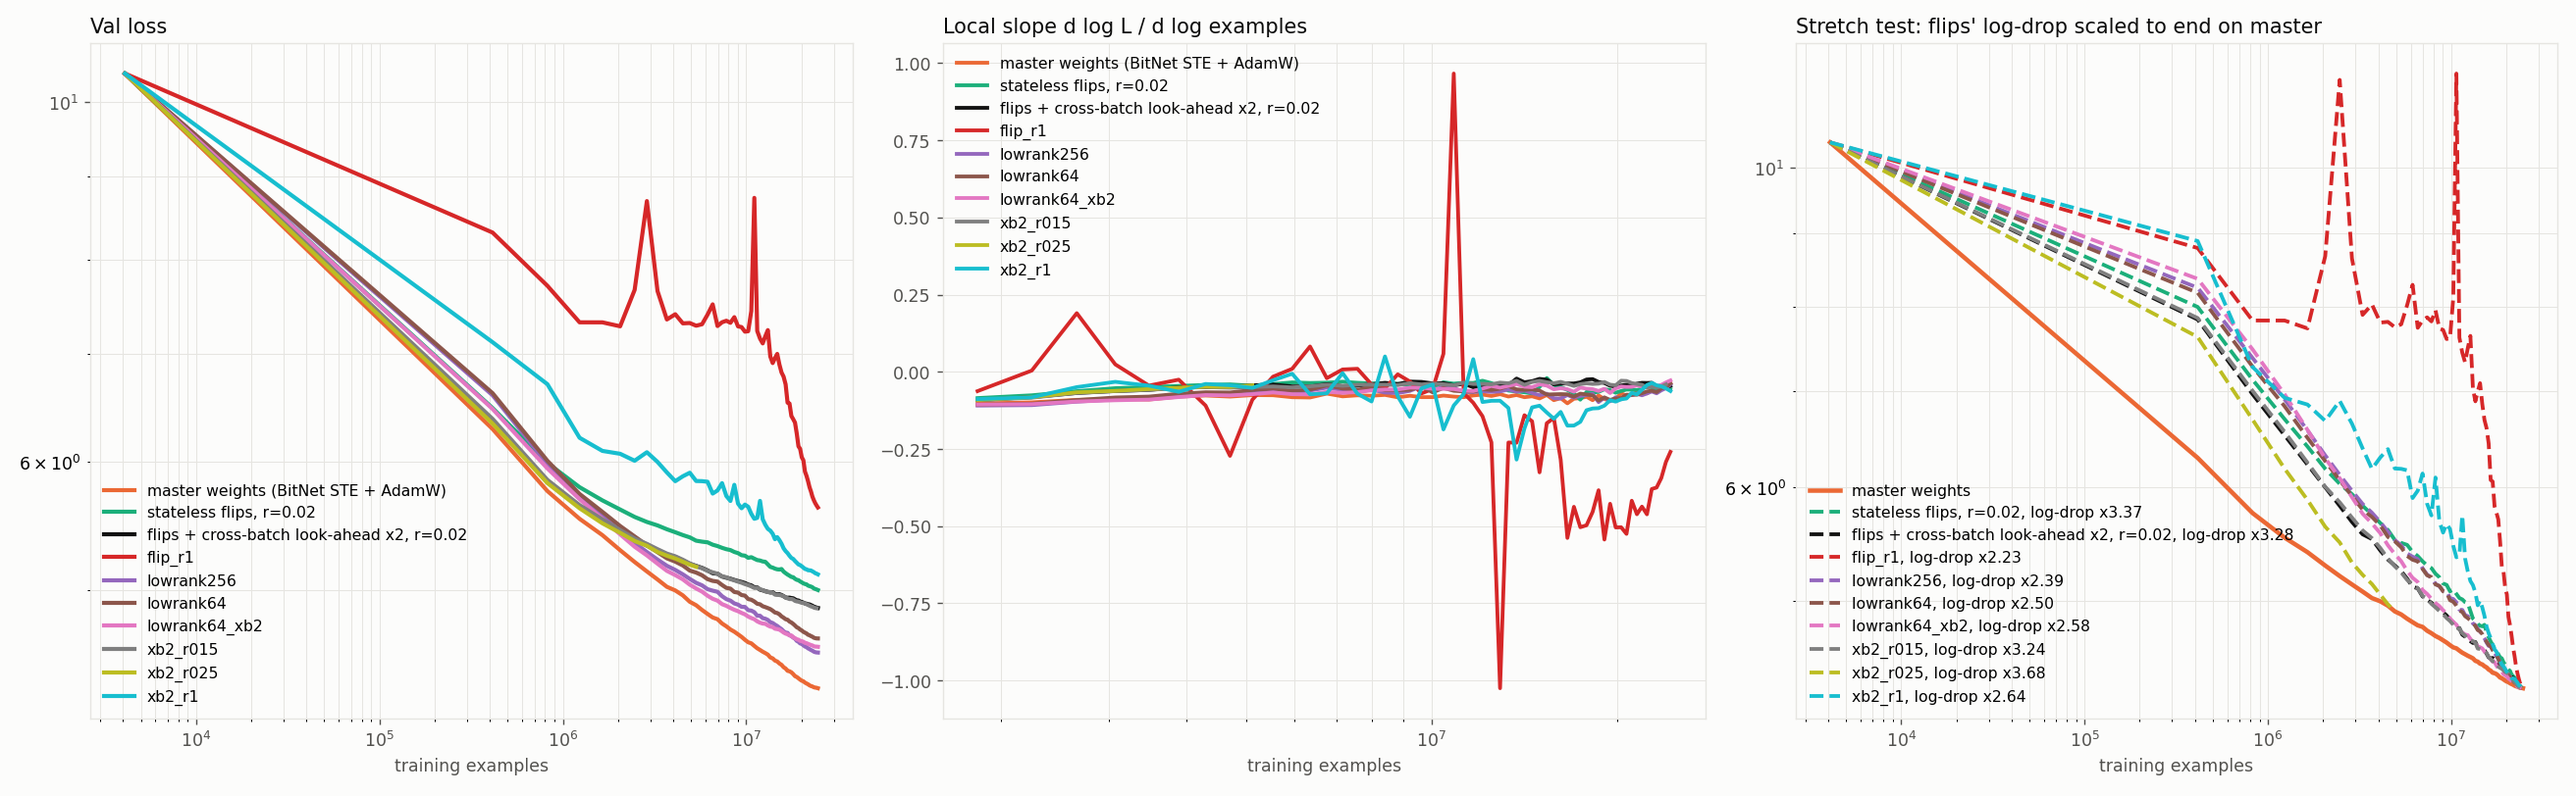
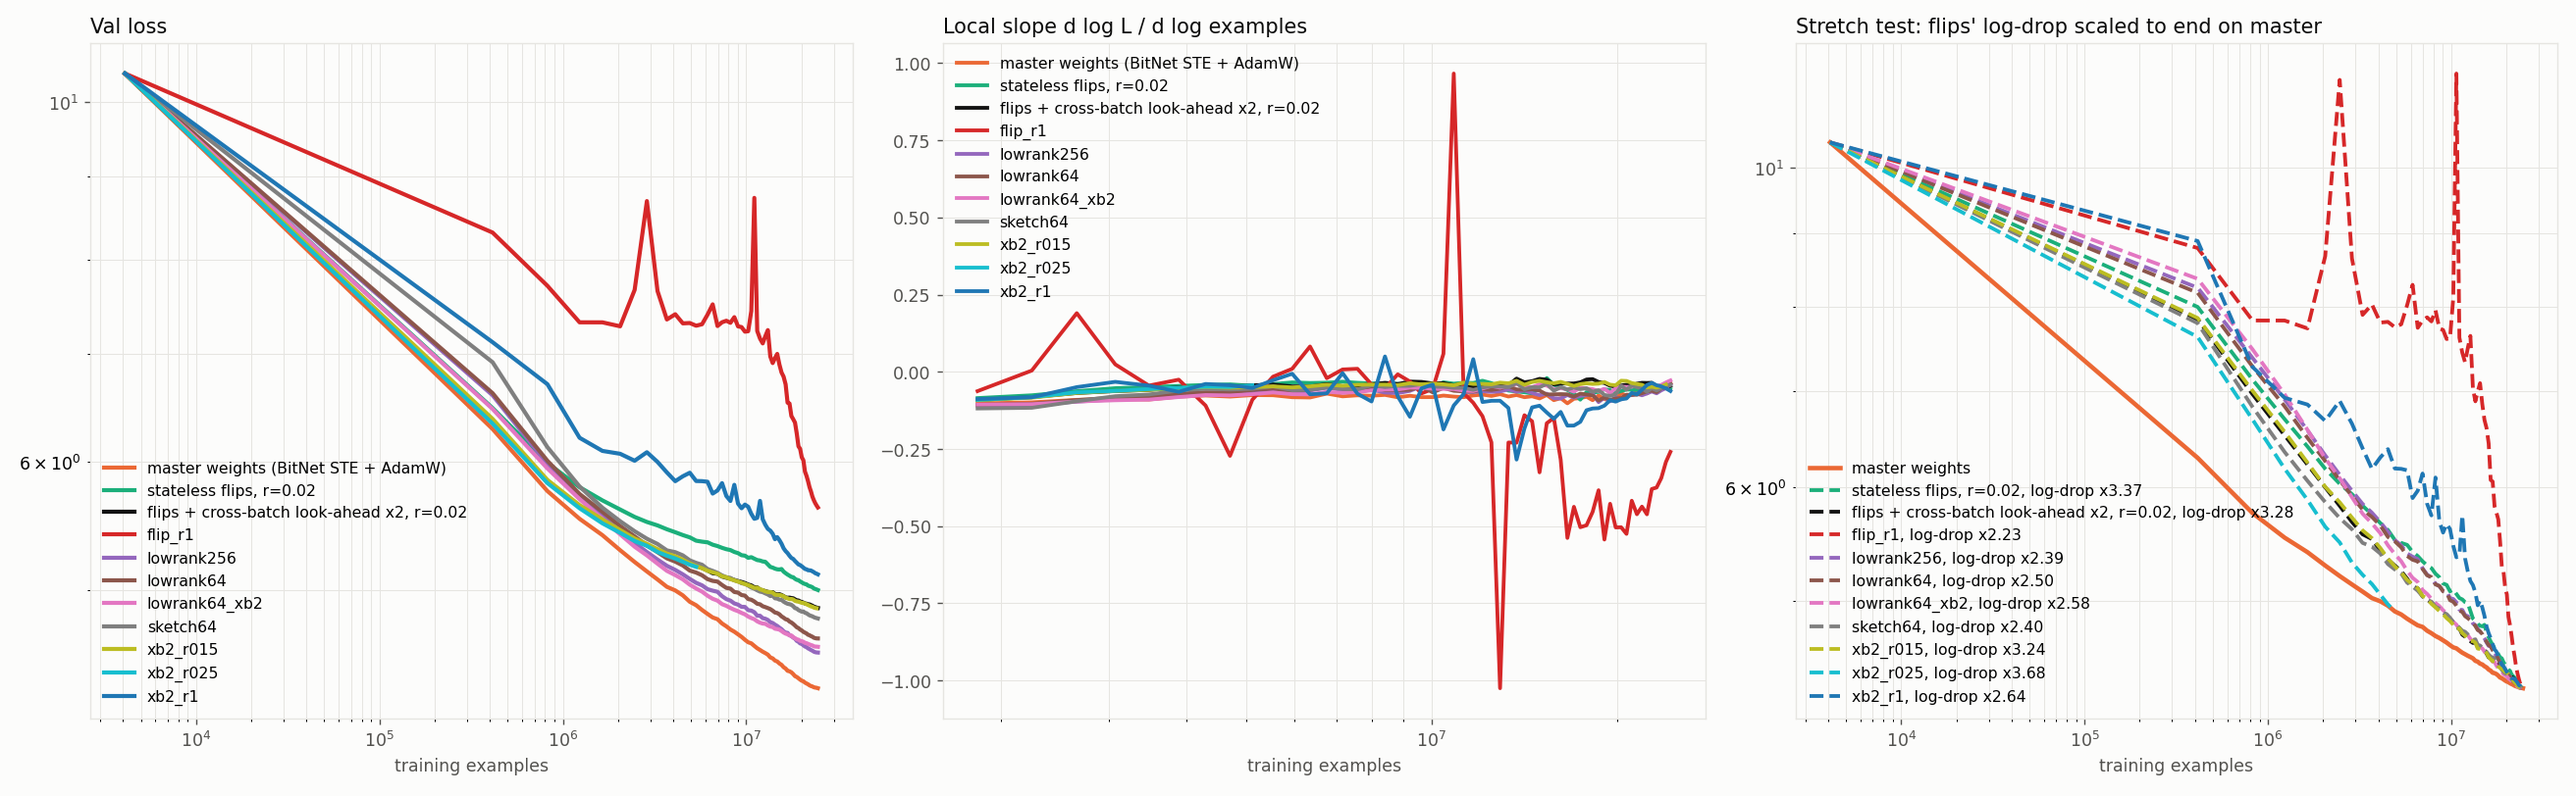
Count-sketch momentum at rank-64 memory: 4.804 vs low-rank 4.670

diff --git a/scripts/mlp/mlp_lab.py b/scripts/mlp/mlp_lab.py
@@ -78,6 +78,9 @@ def main():
     ap.add_argument("--lowrank", type=int, default=0,
                     help="flip signal = rank-r momentum of the gradient (0 = current gradient)")
     ap.add_argument("--lr_beta", type=float, default=0.97, help="decay of the low-rank momentum")
+    ap.add_argument("--sketch", type=int, default=0,
+                    help="flip signal = hashed (count-sketch) momentum with sketch*(N+K) buckets "
+                         "per layer, i.e. the memory of rank-`sketch` momentum")
     ap.add_argument("--eval_every", type=int, default=100)
     ap.add_argument("--max_temp", type=int, default=86)
     ap.add_argument("--seed", type=int, default=0)
@@ -172,6 +175,27 @@ def main():
             fused_flip(l.wpacked, M, l.rate, l.g_ref, 50_000 + s * 131 + i,
                        gmean=M.abs().mean().clamp_min(1e-12).item())
 
+    # count-sketch momentum: weight (i,j) -> bucket h(i,j) with a fixed random sign; the hash is
+    # recomputed from the flat index each step, so the only state is the bucket vector
+    SK = {id(l): torch.zeros(a.sketch * (l.N + l.K), device=dev) for l in Ls} if a.sketch else {}
+
+    def _hash(n, B, salt):
+        i = torch.arange(n, device=dev, dtype=torch.int64)
+        h = (i * 2654435761 + salt * 40503) % 4294967291
+        return h % B, ((h // B) % 2) * 2 - 1
+
+    @torch.no_grad()
+    def sketch_flip(s):
+        from bitnet.kernel import fused_flip
+        for i, l in enumerate(Ls):
+            g = l.gw.float(); l.gw = None; l.capture = False
+            S = SK[id(l)]
+            b, sg = _hash(l.N * l.K, S.numel(), 1 + i)
+            S.mul_(a.lr_beta).index_add_(0, b, g.flatten() * sg)
+            M = (S[b] * sg).view(l.N, l.K)
+            fused_flip(l.wpacked, M, l.rate, l.g_ref, 70_000 + s * 131 + i,
+                       gmean=M.abs().mean().clamp_min(1e-12).item())
+
     t0 = time.time()
     for s in range(a.steps):
         if s % 4 == 0:
@@ -182,14 +206,16 @@ def main():
             g["lr"] = lr_at(s)
         if Ls:
             set_flip_rate(model, rate_at(s))
-            for l in Ls: l.capture = bool(a.lookahead or a.lowrank)
+            for l in Ls: l.capture = bool(a.lookahead or a.lowrank or a.sketch)
         x, y = windows(train, a.batch, a.ctx, gtr, dev)
         opt.zero_grad(set_to_none=True)
         with torch.autocast("cuda", dtype=torch.bfloat16):
             loss = model(x, y)[1]
         loss.backward()
         info = {}
-        if a.lowrank:
+        if a.sketch:
+            sketch_flip(s)
+        elif a.lowrank:
             lowrank_flip(s, x, y)
         elif a.lookahead:
             info = lookahead_step(model, x, y, params, dev, s, a.lookahead, 0, extra)

diff --git a/docs/RUNS.md b/docs/RUNS.md
@@ -988,3 +988,9 @@ of plain flips), at 3 passes per step.
 Rank 256 (`mlp_lowrank256`, no look-ahead): **val 4.577** (rank 64: 4.670; master 4.351) --
 65% of the flip-to-master gap closed with one pass per step. Memory 256*(N+K) per layer
 (50% of per-weight at 1024x1024; ~7% at 27B layer shapes).
+
+Hashed (count-sketch) momentum at the memory of rank 64 (`mlp_sketch64`: 64*(N+K) buckets per
+layer, ~8 weights per bucket, fixed random signs): **val 4.804**, slope in between. Better than
+plain flips (5.003) and look-ahead (4.877), clearly worse than rank-64 momentum at equal memory
+(4.670): a random projection of the flattened gradient loses to the adaptive low-rank one,
+because it ignores the outer-product structure and adds per-weight reconstruction noise.
